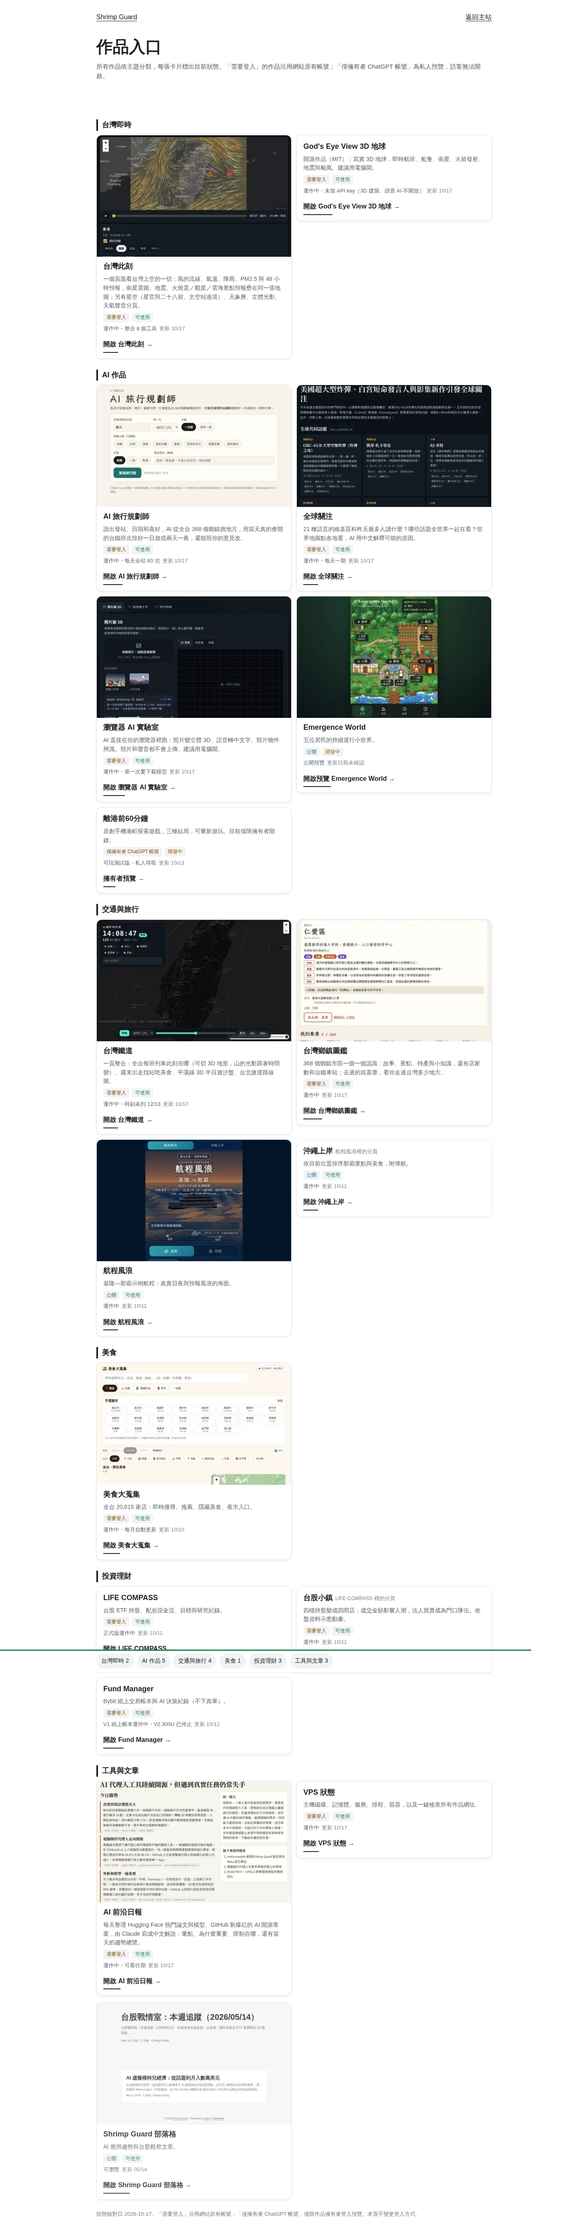
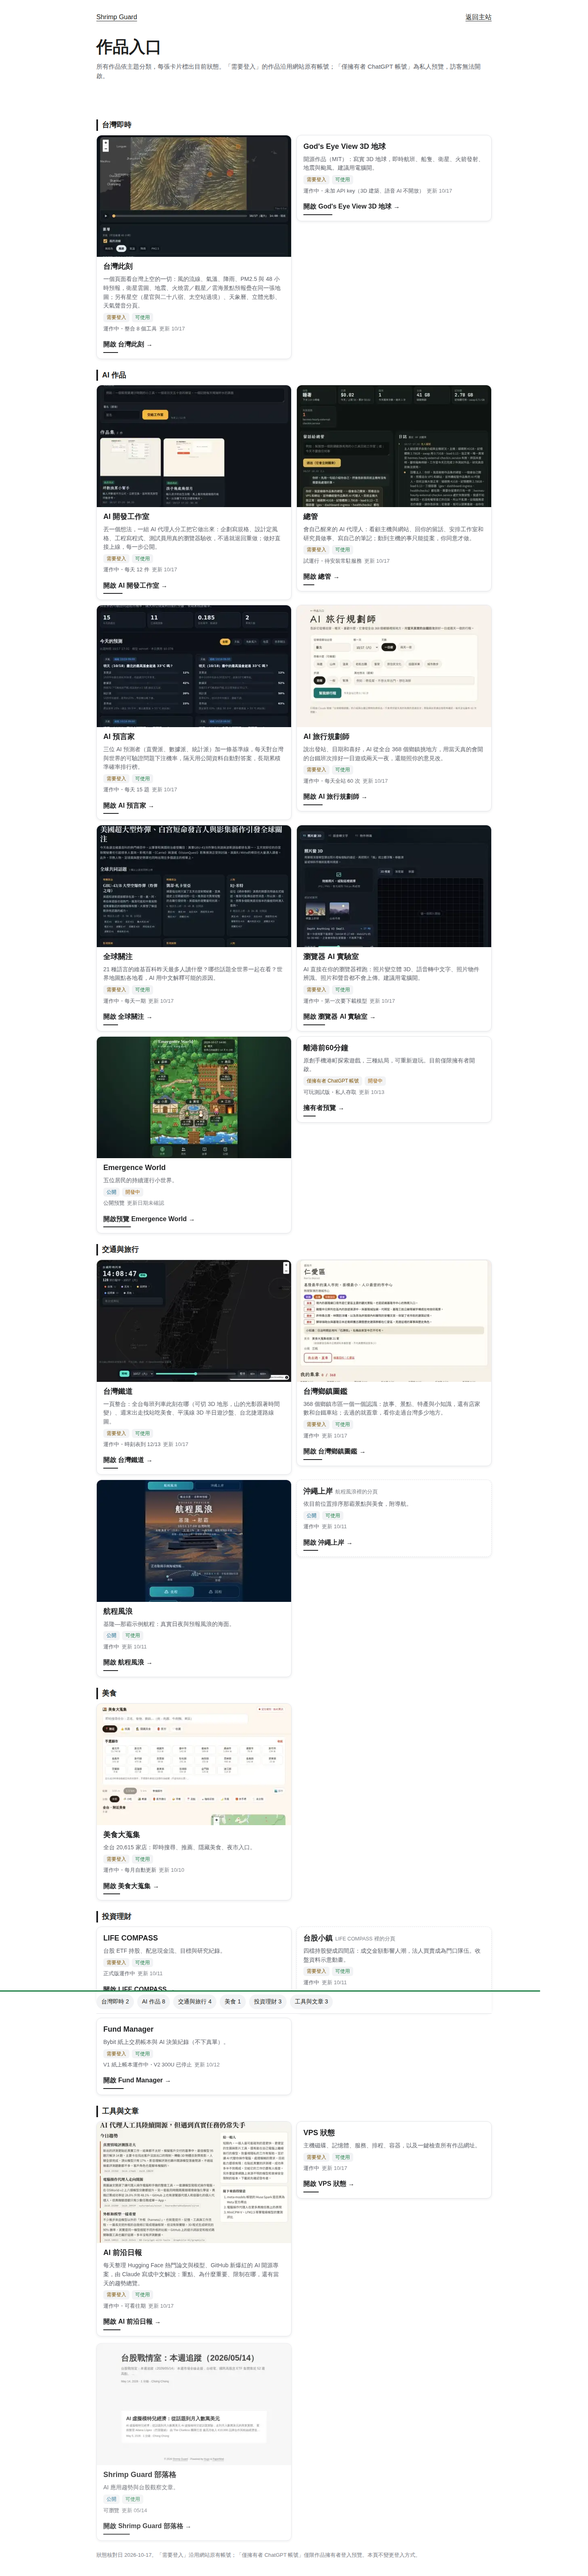
projects: AI 開發工作室, 總管, AI 預言家 cards (21 works, 14 previews)
Claude-Session: https://claude.ai/code/session_01GVcRfQhdVaSGc69DiKrmzk

diff --git a/overlays/projects/index.html b/overlays/projects/index.html
@@ -1,0 +1,50 @@
+<!doctype html><html lang="zh-Hant"><head><meta charset="utf-8"><meta name="viewport" content="width=device-width,initial-scale=1"><title>作品入口 · Shrimp Guard</title><meta name="description" content="Shrimp Guard 所有作品與目前狀態。"><style>
+:root{color-scheme:light dark;--bg:#fff;--card:#fff;--ink:#1d1e20;--ink2:#5b5e66;--ink3:#7d8087;--line:#e3e4e8;--chip:#f2f3f5;--ok:#1d7f46;--dev:#9a5c00;--old:#6c6f77;--ask:#5b43b0;--lock:#7a5000;--pub:#0a5f85}
+@media (prefers-color-scheme:dark){:root{--bg:#1d1e20;--card:#26272b;--ink:#dadadb;--ink2:#b0b2b7;--ink3:#8c8f96;--line:#38393e;--chip:#313237;--ok:#57c785;--dev:#e3a23a;--old:#a3a6ad;--ask:#ad98f2;--lock:#e5b864;--pub:#64bde4}}
+*{box-sizing:border-box}body{margin:0;background:var(--bg);color:var(--ink);font-family:-apple-system,BlinkMacSystemFont,"Segoe UI","PingFang TC","Noto Sans TC",sans-serif;line-height:1.55}
+.shell{max-width:1000px;margin:auto;padding:20px 16px 40px}
+nav.top{display:flex;justify-content:space-between;align-items:center}nav.top a{color:var(--ink);padding:10px 0;text-decoration:underline;text-underline-offset:4px}
+h1{font-size:clamp(28px,5vw,40px);margin:18px 0 6px}.intro{color:var(--ink2);margin:0;font-size:15px}
+.jump{position:sticky;top:0;z-index:2;background:var(--bg);display:flex;gap:8px;overflow-x:auto;padding:10px 0;margin-top:12px;border-bottom:1px solid var(--line)}
+.jump a{flex:none;font-size:14px;padding:7px 12px;border-radius:999px;background:var(--chip);color:var(--ink);text-decoration:none;white-space:nowrap}
+section{scroll-margin-top:60px}h2{font-size:18px;margin:26px 0 10px;padding-left:10px;border-left:4px solid var(--ink)}
+.grid{display:grid;grid-template-columns:repeat(2,minmax(0,1fr));gap:12px;align-items:start}
+.card{background:var(--card);border:1px solid var(--line);border-radius:12px;padding:14px 16px;display:flex;flex-direction:column;gap:6px;min-width:0}
+.card.sub{border-style:dashed}
+.name{font-size:18px;font-weight:700;margin:0}.of{font-size:12.5px;color:var(--ink3);font-weight:400;margin-left:6px}
+.desc{font-size:14px;color:var(--ink2);margin:0}
+.tags{display:flex;gap:6px;flex-wrap:wrap;margin:0;padding:0;list-style:none}
+.tags li{font-size:12px;padding:2px 8px;border-radius:6px;background:var(--chip);color:var(--ink2)}
+.tags .pub{color:var(--pub)}.tags .lock{color:var(--lock)}.tags .ok{color:var(--ok)}.tags .dev{color:var(--dev)}.tags .old{color:var(--old)}.tags .ask{color:var(--ask)}.tags .test{color:var(--dev);font-weight:700}
+.st{font-size:13px;color:var(--ink2);margin:0}.st time{color:var(--ink3);margin-left:6px}
+.open{margin:2px 0 0}.open a{display:inline-block;padding:8px 0;color:var(--ink);font-weight:700;text-decoration:underline;text-underline-offset:4px}
+details{border:1px solid var(--line);border-radius:12px;background:var(--card)}
+summary{cursor:pointer;padding:14px 16px;font-size:15px;font-weight:700;display:flex;justify-content:space-between;align-items:center}
+summary::-webkit-details-marker{display:none}summary::after{content:"展開 ▾";font-size:13px;font-weight:500;color:var(--ink2)}details[open] summary::after{content:"收合 ▴"}
+details .grid{padding:0 12px 12px}
+footer{margin-top:28px;font-size:13px;color:var(--ink3);line-height:1.8}
+a:focus-visible,summary:focus-visible{outline:3px solid #6797c0;outline-offset:4px}
+@media(max-width:600px){.grid{grid-template-columns:1fr}}
+.pv{display:block;margin:-14px -16px 4px;border-radius:12px 12px 0 0;overflow:hidden;aspect-ratio:8/5;background:var(--chip)}
+.pv img{display:block;width:100%;height:100%;object-fit:cover}
+.progress{position:fixed;left:0;top:0;height:3px;width:100%;background:var(--ok);transform-origin:0 50%;transform:scaleX(0);z-index:5}
+@media (prefers-reduced-motion:no-preference){
+  /* #081 hover lift: up 8 px, shadow blur 6→22 px, 0.3 s ease-out */
+  .card{transition:transform .3s cubic-bezier(.22,.9,.3,1),box-shadow .3s cubic-bezier(.22,.9,.3,1);box-shadow:0 2px 6px rgba(28,35,51,.08)}
+  .card:hover{transform:translateY(-8px);box-shadow:0 12px 22px rgba(28,35,51,.22)}
+  /* #082 image zoom on hover: fixed frame, picture to 1.06× over 0.5 s */
+  .pv img{transition:transform .5s cubic-bezier(.22,.9,.3,1)}.card:hover .pv img{transform:scale(1.06)}
+  /* #086 underline animation: grows from the left in 0.3 s */
+  .open a{text-decoration:none;background:linear-gradient(currentColor,currentColor) 0 100%/30% 2px no-repeat;transition:background-size .3s ease-out}
+  .open a:hover,.open a:focus-visible{background-size:100% 2px}
+  @supports (animation-timeline:view()){
+    /* #074 fade-in on scroll: up from 30 px as each card enters */
+    .card{animation:rise linear both;animation-timeline:view();animation-range:entry 0% entry 35%}
+    @keyframes rise{from{opacity:0;translate:0 30px}to{opacity:1;translate:0 0}}
+    /* #079 scroll progress bar */
+    .progress{animation:grow linear both;animation-timeline:scroll(root)}
+    @keyframes grow{to{transform:scaleX(1)}}
+  }
+}
+@media (prefers-reduced-motion:reduce){.progress{display:none}}
+</style></head><body><div class="progress" aria-hidden="true"></div><div class="shell"><nav class="top" aria-label="網站導覽"><a href="/">Shrimp Guard</a><a href="/">返回主站</a></nav><main><h1>作品入口</h1><p class="intro">所有作品依主題分類，每張卡片標出目前狀態。「需要登入」的作品沿用網站原有帳號；「僅擁有者 ChatGPT 帳號」為私人預覽，訪客無法開啟。</p><nav class="jump" aria-label="分類"><a href="#live">台灣即時 2</a><a href="#ai">AI 作品 8</a><a href="#travel">交通與旅行 4</a><a href="#food">美食 1</a><a href="#money">投資理財 3</a><a href="#tools">工具與文章 3</a></nav><section id="live" aria-label="台灣即時"><h2>台灣即時</h2><div class="grid"><article class="card has-pv"><picture class="pv"><source media="(prefers-reduced-motion: reduce)" srcset="previews/taiwan.poster.webp"><img src="previews/taiwan.webp" width="480" height="300" loading="lazy" decoding="async" alt="台灣此刻 畫面預覽"></picture><h3 class="name">台灣此刻</h3><p class="desc">一個頁面看台灣上空的一切：風的流線、氣溫、降雨、PM2.5 與 48 小時預報，衛星雲圖、地震、火燒雲／觀星／雲海景點預報疊在同一張地圖；另有星空（星官與二十八宿、太空站過境）、天象曆、立體光影、天氣聲音分頁。</p><ul class="tags"><li class="lock">需要登入</li><li class="ok">可使用</li></ul><p class="st">運作中・整合 8 個工具<time>更新 10/17</time></p><p class="open"><a href="https://dashboard.shrimp-guard.us.ci/apps/taiwan/">開啟 台灣此刻 →</a></p></article><article class="card"><h3 class="name">God&#x27;s Eye View 3D 地球</h3><p class="desc">開源作品（MIT）：寫實 3D 地球，即時航班、船隻、衛星、火箭發射、地震與颱風。建議用電腦開。</p><ul class="tags"><li class="lock">需要登入</li><li class="ok">可使用</li></ul><p class="st">運作中・未加 API key（3D 建築、語音 AI 不開放）<time>更新 10/17</time></p><p class="open"><a href="https://dashboard.shrimp-guard.us.ci/globe/">開啟 God&#x27;s Eye View 3D 地球 →</a></p></article></div></section><section id="ai" aria-label="AI 作品"><h2>AI 作品</h2><div class="grid"><article class="card has-pv"><picture class="pv"><source media="(prefers-reduced-motion: reduce)" srcset="previews/studio.poster.webp"><img src="previews/studio.webp" width="480" height="300" loading="lazy" decoding="async" alt="AI 開發工作室 畫面預覽"></picture><h3 class="name">AI 開發工作室</h3><p class="desc">丟一個想法，一組 AI 代理人分工把它做出來：企劃寫規格、設計定風格、工程寫程式、測試員用真的瀏覽器驗收，不過就退回重做；做好直接上線，每一步公開。</p><ul class="tags"><li class="lock">需要登入</li><li class="ok">可使用</li></ul><p class="st">運作中・每天 12 件<time>更新 10/17</time></p><p class="open"><a href="https://dashboard.shrimp-guard.us.ci/apps/studio/">開啟 AI 開發工作室 →</a></p></article><article class="card has-pv"><picture class="pv"><source media="(prefers-reduced-motion: reduce)" srcset="previews/steward.poster.webp"><img src="previews/steward.webp" width="480" height="300" loading="lazy" decoding="async" alt="總管 畫面預覽"></picture><h3 class="name">總管</h3><p class="desc">會自己醒來的 AI 代理人：看顧主機與網站、回你的留話、安排工作室和研究員做事、寫自己的筆記；動到主機的事只能提案，你同意才做。</p><ul class="tags"><li class="lock">需要登入</li><li class="ok">可使用</li></ul><p class="st">試運行・待安裝常駐服務<time>更新 10/17</time></p><p class="open"><a href="https://dashboard.shrimp-guard.us.ci/apps/steward/">開啟 總管 →</a></p></article><article class="card has-pv"><picture class="pv"><source media="(prefers-reduced-motion: reduce)" srcset="previews/oracle.poster.webp"><img src="previews/oracle.webp" width="480" height="300" loading="lazy" decoding="async" alt="AI 預言家 畫面預覽"></picture><h3 class="name">AI 預言家</h3><p class="desc">三位 AI 預測者（直覺派、數據派、統計派）加一條基準線，每天對台灣與世界的可驗證問題下注機率，隔天用公開資料自動對答案，長期累積準確率排行榜。</p><ul class="tags"><li class="lock">需要登入</li><li class="ok">可使用</li></ul><p class="st">運作中・每天 15 題<time>更新 10/17</time></p><p class="open"><a href="https://dashboard.shrimp-guard.us.ci/apps/oracle/">開啟 AI 預言家 →</a></p></article><article class="card has-pv"><picture class="pv"><source media="(prefers-reduced-motion: reduce)" srcset="previews/planner.poster.webp"><img src="previews/planner.webp" width="480" height="300" loading="lazy" decoding="async" alt="AI 旅行規劃師 畫面預覽"></picture><h3 class="name">AI 旅行規劃師</h3><p class="desc">說出發站、日期和喜好，AI 從全台 368 個鄉鎮挑地方，用當天真的會開的台鐵班次排好一日遊或兩天一夜，還能照你的意見改。</p><ul class="tags"><li class="lock">需要登入</li><li class="ok">可使用</li></ul><p class="st">運作中・每天全站 60 次<time>更新 10/17</time></p><p class="open"><a href="https://dashboard.shrimp-guard.us.ci/apps/planner/">開啟 AI 旅行規劃師 →</a></p></article><article class="card has-pv"><picture class="pv"><source media="(prefers-reduced-motion: reduce)" srcset="previews/world.poster.webp"><img src="previews/world.webp" width="480" height="300" loading="lazy" decoding="async" alt="全球關注 畫面預覽"></picture><h3 class="name">全球關注</h3><p class="desc">21 種語言的維基百科昨天最多人讀什麼？哪些話題全世界一起在看？世界地圖點各地看，AI 用中文解釋可能的原因。</p><ul class="tags"><li class="lock">需要登入</li><li class="ok">可使用</li></ul><p class="st">運作中・每天一期<time>更新 10/17</time></p><p class="open"><a href="https://dashboard.shrimp-guard.us.ci/apps/world/">開啟 全球關注 →</a></p></article><article class="card has-pv"><picture class="pv"><source media="(prefers-reduced-motion: reduce)" srcset="previews/ailab.poster.webp"><img src="previews/ailab.webp" width="480" height="300" loading="lazy" decoding="async" alt="瀏覽器 AI 實驗室 畫面預覽"></picture><h3 class="name">瀏覽器 AI 實驗室</h3><p class="desc">AI 直接在你的瀏覽器裡跑：照片變立體 3D、語音轉中文字、照片物件辨識。照片和聲音都不會上傳。建議用電腦開。</p><ul class="tags"><li class="lock">需要登入</li><li class="ok">可使用</li></ul><p class="st">運作中・第一次要下載模型<time>更新 10/17</time></p><p class="open"><a href="https://dashboard.shrimp-guard.us.ci/apps/ailab/">開啟 瀏覽器 AI 實驗室 →</a></p></article><article class="card has-pv"><picture class="pv"><source media="(prefers-reduced-motion: reduce)" srcset="previews/emergence.poster.webp"><img src="previews/emergence.webp" width="480" height="300" loading="lazy" decoding="async" alt="Emergence World 畫面預覽"></picture><h3 class="name">Emergence World</h3><p class="desc">五位居民的持續運行小世界。</p><ul class="tags"><li class="pub">公開</li><li class="dev">開發中</li></ul><p class="st">公開預覽<time>更新日期未確認</time></p><p class="open"><a href="https://emergence-world-preview.httpsmulticlawmoltidworkersdevcmolt32c002a10b29b0e3ad3.workers.dev/">開啟預覽 Emergence World →</a></p></article><article class="card"><h3 class="name">離港前60分鐘</h3><p class="desc">原創手機港町探索遊戲，三種結局，可重新遊玩。目前僅限擁有者開啟。</p><ul class="tags"><li class="lock">僅擁有者 ChatGPT 帳號</li><li class="dev">開發中</li></ul><p class="st">可玩測試版・私人存取<time>更新 10/13</time></p><p class="open"><a href="https://harbor-sixty-minute-game.windy-maple-0615.chatgpt.site">擁有者預覽 →</a></p></article></div></section><section id="travel" aria-label="交通與旅行"><h2>交通與旅行</h2><div class="grid"><article class="card has-pv"><picture class="pv"><source media="(prefers-reduced-motion: reduce)" srcset="previews/rail-live.poster.webp"><img src="previews/rail-live.webp" width="480" height="300" loading="lazy" decoding="async" alt="台灣鐵道 畫面預覽"></picture><h3 class="name">台灣鐵道</h3><p class="desc">一頁整合：全台每班列車此刻在哪（可切 3D 地形，山的光影跟著時間變）、週末出走找站吃美食、平溪線 3D 半日遊沙盤、台北捷運路線圖。</p><ul class="tags"><li class="lock">需要登入</li><li class="ok">可使用</li></ul><p class="st">運作中・時刻表到 12/13<time>更新 10/17</time></p><p class="open"><a href="https://dashboard.shrimp-guard.us.ci/apps/rail/">開啟 台灣鐵道 →</a></p></article><article class="card has-pv"><picture class="pv"><source media="(prefers-reduced-motion: reduce)" srcset="previews/towns.poster.webp"><img src="previews/towns.webp" width="480" height="300" loading="lazy" decoding="async" alt="台灣鄉鎮圖鑑 畫面預覽"></picture><h3 class="name">台灣鄉鎮圖鑑</h3><p class="desc">368 個鄉鎮市區一個一個認識：故事、景點、特產與小知識，還有店家數和台鐵車站；去過的就蓋章，看你走過台灣多少地方。</p><ul class="tags"><li class="lock">需要登入</li><li class="ok">可使用</li></ul><p class="st">運作中<time>更新 10/17</time></p><p class="open"><a href="https://dashboard.shrimp-guard.us.ci/apps/towns/">開啟 台灣鄉鎮圖鑑 →</a></p></article><article class="card has-pv"><picture class="pv"><source media="(prefers-reduced-motion: reduce)" srcset="previews/room.poster.webp"><img src="previews/room.webp" width="480" height="300" loading="lazy" decoding="async" alt="航程風浪 畫面預覽"></picture><h3 class="name">航程風浪</h3><p class="desc">基隆—那霸示例航程：真實日夜與預報風浪的海面。</p><ul class="tags"><li class="pub">公開</li><li class="ok">可使用</li></ul><p class="st">運作中<time>更新 10/11</time></p><p class="open"><a href="/room/">開啟 航程風浪 →</a></p></article><article class="card sub"><h3 class="name">沖繩上岸<span class="of">航程風浪裡的分頁</span></h3><p class="desc">依目前位置排序那霸景點與美食，附導航。</p><ul class="tags"><li class="pub">公開</li><li class="ok">可使用</li></ul><p class="st">運作中<time>更新 10/11</time></p><p class="open"><a href="/room/#landing">開啟 沖繩上岸 →</a></p></article></div></section><section id="food" aria-label="美食"><h2>美食</h2><div class="grid"><article class="card has-pv"><picture class="pv"><source media="(prefers-reduced-motion: reduce)" srcset="previews/food-map.poster.webp"><img src="previews/food-map.webp" width="480" height="300" loading="lazy" decoding="async" alt="美食大蒐集 畫面預覽"></picture><h3 class="name">美食大蒐集</h3><p class="desc">全台 20,615 家店：即時搜尋、推薦、隱藏美食、夜市入口。</p><ul class="tags"><li class="lock">需要登入</li><li class="ok">可使用</li></ul><p class="st">運作中・每月自動更新<time>更新 10/10</time></p><p class="open"><a href="https://dashboard.shrimp-guard.us.ci/food-map/">開啟 美食大蒐集 →</a></p></article></div></section><section id="money" aria-label="投資理財"><h2>投資理財</h2><div class="grid"><article class="card"><h3 class="name">LIFE COMPASS</h3><p class="desc">台股 ETF 持股、配息現金流、目標與研究紀錄。</p><ul class="tags"><li class="lock">需要登入</li><li class="ok">可使用</li></ul><p class="st">正式版運作中<time>更新 10/11</time></p><p class="open"><a href="https://dashboard.shrimp-guard.us.ci/one-life/">開啟 LIFE COMPASS →</a></p></article><article class="card sub"><h3 class="name">台股小鎮<span class="of">LIFE COMPASS 裡的分頁</span></h3><p class="desc">四檔持股變成四間店：成交金額影響人潮，法人買賣成為門口隊伍。收盤資料示意動畫。</p><ul class="tags"><li class="lock">需要登入</li><li class="ok">可使用</li></ul><p class="st">運作中<time>更新 10/11</time></p><p class="open"><a href="https://dashboard.shrimp-guard.us.ci/one-life/#town">開啟 台股小鎮 →</a></p></article><article class="card"><h3 class="name">Fund Manager</h3><p class="desc">Bybit 紙上交易帳本與 AI 決策紀錄（不下真單）。</p><ul class="tags"><li class="lock">需要登入</li><li class="ok">可使用</li></ul><p class="st">V1 紙上帳本運作中・V2 300U 已停止<time>更新 10/12</time></p><p class="open"><a href="https://dashboard.shrimp-guard.us.ci/fund-manager/">開啟 Fund Manager →</a></p></article></div></section><section id="tools" aria-label="工具與文章"><h2>工具與文章</h2><div class="grid"><article class="card has-pv"><picture class="pv"><source media="(prefers-reduced-motion: reduce)" srcset="previews/ai-frontier.poster.webp"><img src="previews/ai-frontier.webp" width="480" height="300" loading="lazy" decoding="async" alt="AI 前沿日報 畫面預覽"></picture><h3 class="name">AI 前沿日報</h3><p class="desc">每天整理 Hugging Face 熱門論文與模型、GitHub 新爆紅的 AI 開源專案，由 Claude 寫成中文解說：重點、為什麼重要、限制在哪，還有當天的趨勢總覽。</p><ul class="tags"><li class="lock">需要登入</li><li class="ok">可使用</li></ul><p class="st">運作中・可看往期<time>更新 10/17</time></p><p class="open"><a href="https://dashboard.shrimp-guard.us.ci/apps/ai-frontier/">開啟 AI 前沿日報 →</a></p></article><article class="card"><h3 class="name">VPS 狀態</h3><p class="desc">主機磁碟、記憶體、服務、排程、容器，以及一鍵檢查所有作品網址。</p><ul class="tags"><li class="lock">需要登入</li><li class="ok">可使用</li></ul><p class="st">運作中<time>更新 10/17</time></p><p class="open"><a href="https://dashboard.shrimp-guard.us.ci/apps/vps/">開啟 VPS 狀態 →</a></p></article><article class="card has-pv"><picture class="pv"><source media="(prefers-reduced-motion: reduce)" srcset="previews/blog.poster.webp"><img src="previews/blog.webp" width="480" height="300" loading="lazy" decoding="async" alt="Shrimp Guard 部落格 畫面預覽"></picture><h3 class="name">Shrimp Guard 部落格</h3><p class="desc">AI 應用趨勢與台股觀察文章。</p><ul class="tags"><li class="pub">公開</li><li class="ok">可使用</li></ul><p class="st">可瀏覽<time>更新 05/14</time></p><p class="open"><a href="/">開啟 Shrimp Guard 部落格 →</a></p></article></div></section></main><footer>狀態核對日 2026-10-17。「需要登入」沿用網站原有帳號；「僅擁有者 ChatGPT 帳號」僅限作品擁有者登入預覽。本頁不變更登入方式。</footer></div></body></html>

diff --git a/scripts/build_projects_entry.py b/scripts/build_projects_entry.py
@@ -11,6 +11,9 @@ WORKS = [
     dict(c='live', g='ok', name='台灣此刻', pv='taiwan', desc='一個頁面看台灣上空的一切：風的流線、氣溫、降雨、PM2.5 與 48 小時預報，衛星雲圖、地震、火燒雲／觀星／雲海景點預報疊在同一張地圖；另有星空（星官與二十八宿、太空站過境）、天象曆、立體光影、天氣聲音分頁。', url=D + '/apps/taiwan/', login=True, st='運作中・整合 8 個工具', date='10/17'),
     dict(c='live', g='ok', name="God's Eye View 3D 地球", desc='開源作品（MIT）：寫實 3D 地球，即時航班、船隻、衛星、火箭發射、地震與颱風。建議用電腦開。', url=D + '/globe/', login=True, st='運作中・未加 API key（3D 建築、語音 AI 不開放）', date='10/17'),
     dict(c='tools', g='ok', name='AI 前沿日報', pv='ai-frontier', desc='每天整理 Hugging Face 熱門論文與模型、GitHub 新爆紅的 AI 開源專案，由 Claude 寫成中文解說：重點、為什麼重要、限制在哪，還有當天的趨勢總覽。', url=D + '/apps/ai-frontier/', login=True, st='運作中・可看往期', date='10/17'),
+    dict(c='ai', g='ok', name='AI 開發工作室', pv='studio', desc='丟一個想法，一組 AI 代理人分工把它做出來：企劃寫規格、設計定風格、工程寫程式、測試員用真的瀏覽器驗收，不過就退回重做；做好直接上線，每一步公開。', url=D + '/apps/studio/', login=True, st='運作中・每天 12 件', date='10/17'),
+    dict(c='ai', g='ok', name='總管', pv='steward', desc='會自己醒來的 AI 代理人：看顧主機與網站、回你的留話、安排工作室和研究員做事、寫自己的筆記；動到主機的事只能提案，你同意才做。', url=D + '/apps/steward/', login=True, st='試運行・待安裝常駐服務', date='10/17'),
+    dict(c='ai', g='ok', name='AI 預言家', pv='oracle', desc='三位 AI 預測者（直覺派、數據派、統計派）加一條基準線，每天對台灣與世界的可驗證問題下注機率，隔天用公開資料自動對答案，長期累積準確率排行榜。', url=D + '/apps/oracle/', login=True, st='運作中・每天 15 題', date='10/17'),
     dict(c='ai', g='ok', name='AI 旅行規劃師', pv='planner', desc='說出發站、日期和喜好，AI 從全台 368 個鄉鎮挑地方，用當天真的會開的台鐵班次排好一日遊或兩天一夜，還能照你的意見改。', url=D + '/apps/planner/', login=True, st='運作中・每天全站 60 次', date='10/17'),
     dict(c='ai', g='ok', name='全球關注', pv='world', desc='21 種語言的維基百科昨天最多人讀什麼？哪些話題全世界一起在看？世界地圖點各地看，AI 用中文解釋可能的原因。', url=D + '/apps/world/', login=True, st='運作中・每天一期', date='10/17'),
     dict(c='ai', g='ok', name='瀏覽器 AI 實驗室', pv='ailab', desc='AI 直接在你的瀏覽器裡跑：照片變立體 3D、語音轉中文字、照片物件辨識。照片和聲音都不會上傳。建議用電腦開。', url=D + '/apps/ailab/', login=True, st='運作中・第一次要下載模型', date='10/17'),
